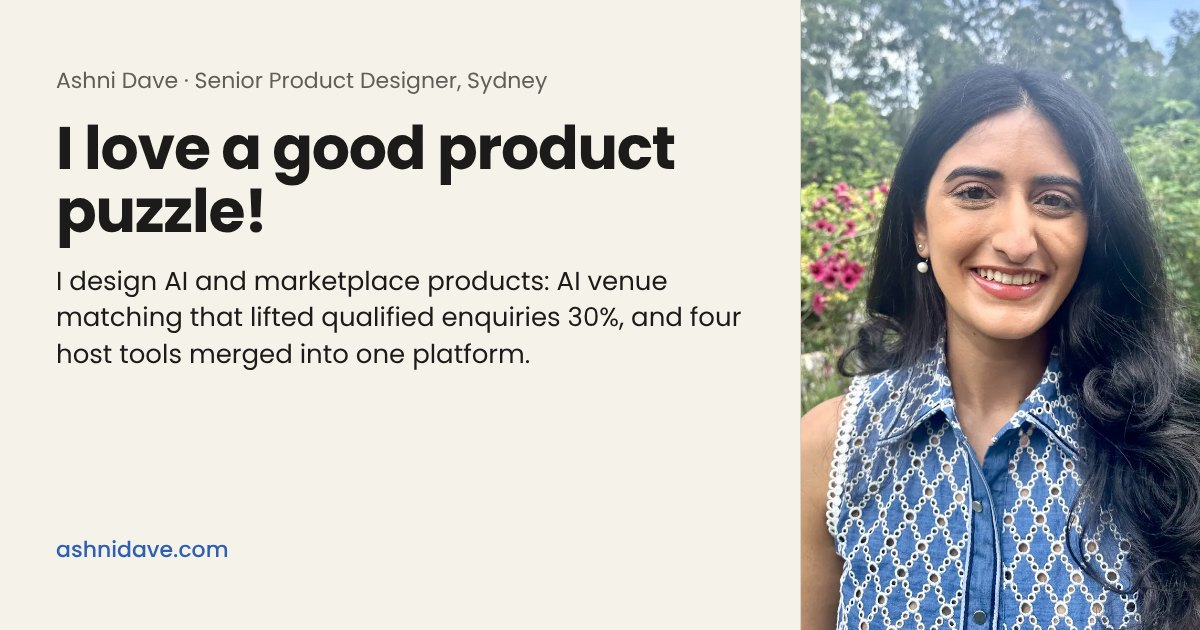
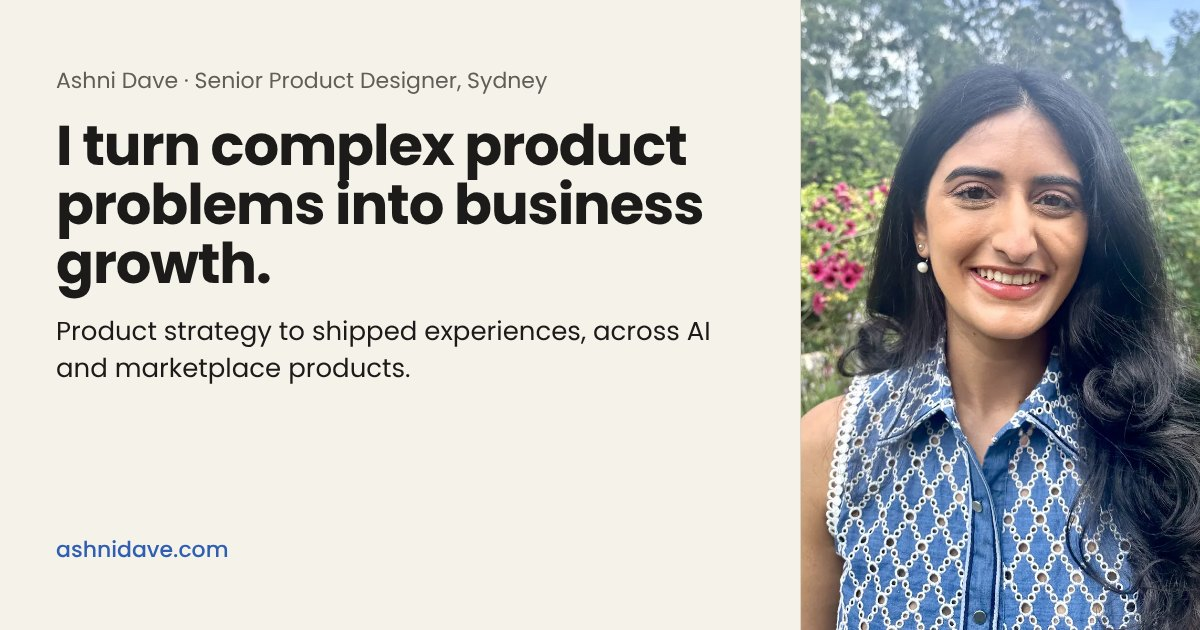
Hero: new headline, role line and lede; homepage link preview to match
Mobile role line drops to 16px so the longest phrase fits a 390px screen.

Claude-Session: https://claude.ai/code/session_01CG5VqjYVk8vS57xhXYEY1a

Changed region(s): [[0.0308, 0.181, 0.6167, 0.6032]]

diff --git a/src/components/Hero.tsx b/src/components/Hero.tsx
@@ -21,18 +21,18 @@ export function Hero() {
                 </svg>
               </p>
               <h1 id="hero-heading" className="display">
-                <span className="hero__line">I love a good product puzzle!</span>
+                <span className="hero__line">I turn complex product problems into business growth.</span>
               </h1>
               <p className="hero__role">
-                <span>Senior Product Designer ·</span> <span>Trained architect ·</span>{' '}
-                <span>Designs and builds with AI</span>
+                <span>Senior Product Designer ·</span> <span>Product strategy to shipped experiences ·</span>{' '}
+                <span>AI &amp; marketplaces</span>
               </p>
             </div>
             <div className="hero__support">
               <div className="hero__copy">
                 <p className="hero__lede">
-                  I design AI and marketplace products. At HeadBox I led AI venue matching that lifted qualified
-                  enquiries 30%, and merged four host tools into one platform in 3 months.
+                  I work across discovery, design and delivery to build products that customers want and businesses
+                  need.
                 </p>
               </div>
               <div className="hero__actions">

diff --git a/src/seo.ts b/src/seo.ts
@@ -67,7 +67,7 @@ export function headFor(page: Page) {
   const image = `${SITE_URL}/og/${page === 'home' ? 'home' : page.caseSlug}.jpg`
   const imageAlt = found
     ? `${found.study.title} case study by ${NAME}: ${found.detail.subtitle}`
-    : `${NAME}, ${JOB} in Sydney: a portrait beside the headline I love a good product puzzle!`
+    : `${NAME}, ${JOB} in Sydney: a portrait beside the headline I turn complex product problems into business growth.`
 
   const graph: object[] = [
     person,

diff --git a/src/components/Hero.css b/src/components/Hero.css
@@ -226,7 +226,7 @@
     font-size: 32px;
   }
   .hero .hero__role {
-    font-size: 18px;
+    font-size: 16px; /* the longest role phrase must fit a 390px screen on one line */
   }
   /* Role line to the buttons: 24px. */
   .hero__intro {
